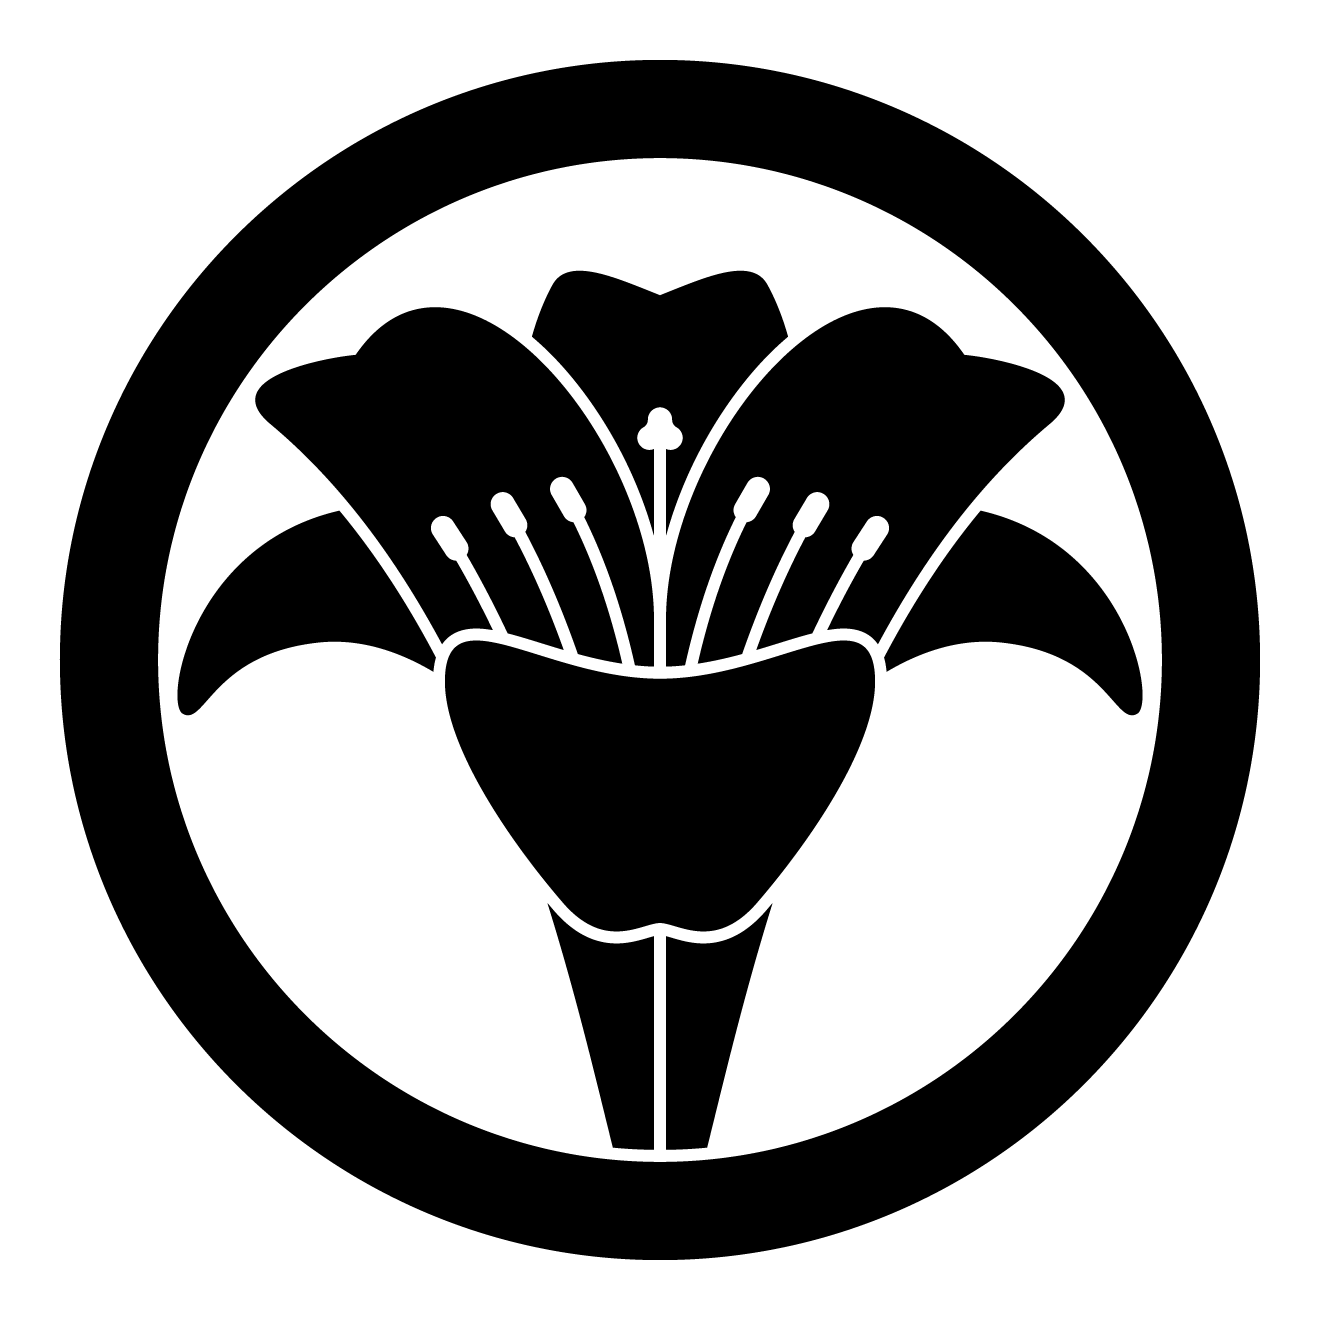
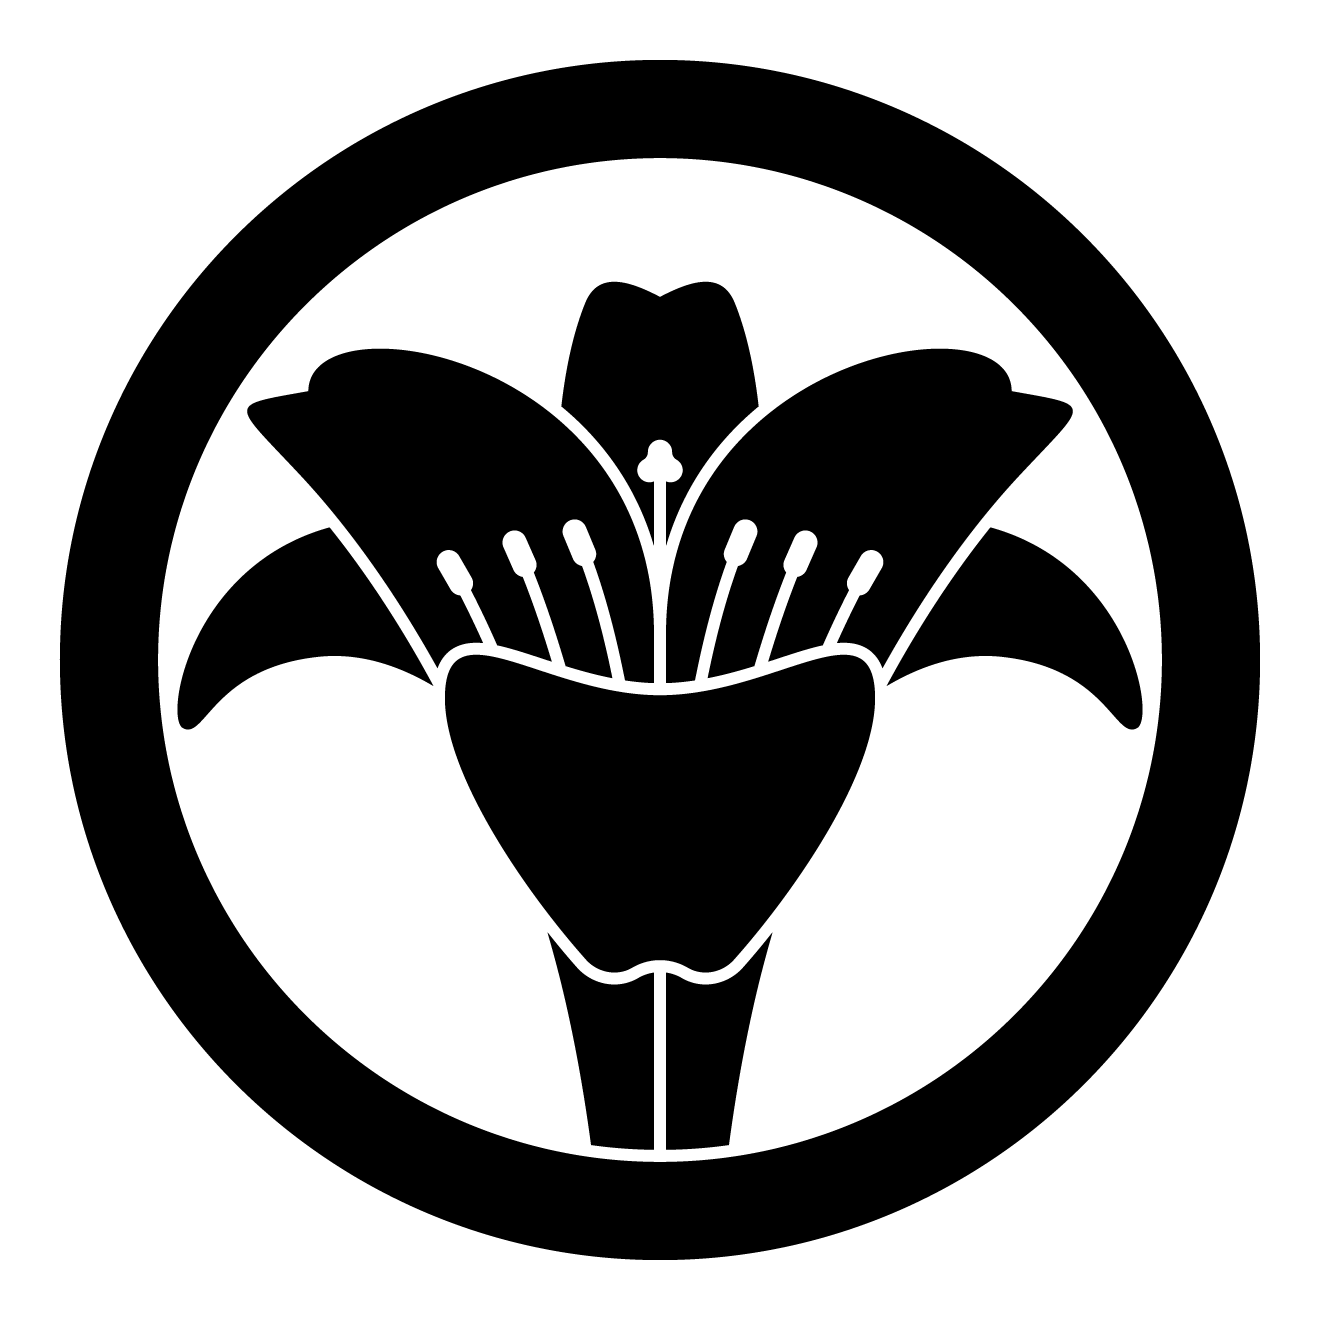
update changes.

diff --git a/404.html b/404.html
@@ -42,7 +42,7 @@
 
   <script src="assets/js/bootstrap.bundle.min.js"></script>
   <script src="assets/js/bootstrap.min.js"></script>
-<script src="polyfills-MH2GNY63.js" type="module"></script><script src="main-ZKVKHR6Q.js" type="module"></script>
+<script src="polyfills-MH2GNY63.js" type="module"></script><script src="main-ER6IYTYD.js" type="module"></script>
   <!-- Cloudflare Web Analytics -->
   <script defer src="https://static.cloudflareinsights.com/beacon.min.js" data-cf-beacon="{&quot;token&quot;: &quot;d7e7463471ac48c58dee6c9f64940eeb&quot;}"></script>
    <!-- End Cloudflare Web Analytics -->

diff --git a/index.html b/index.html
@@ -42,7 +42,7 @@
 
   <script src="assets/js/bootstrap.bundle.min.js"></script>
   <script src="assets/js/bootstrap.min.js"></script>
-<script src="polyfills-MH2GNY63.js" type="module"></script><script src="main-ZKVKHR6Q.js" type="module"></script>
+<script src="polyfills-MH2GNY63.js" type="module"></script><script src="main-ER6IYTYD.js" type="module"></script>
   <!-- Cloudflare Web Analytics -->
   <script defer src="https://static.cloudflareinsights.com/beacon.min.js" data-cf-beacon="{&quot;token&quot;: &quot;d7e7463471ac48c58dee6c9f64940eeb&quot;}"></script>
    <!-- End Cloudflare Web Analytics -->